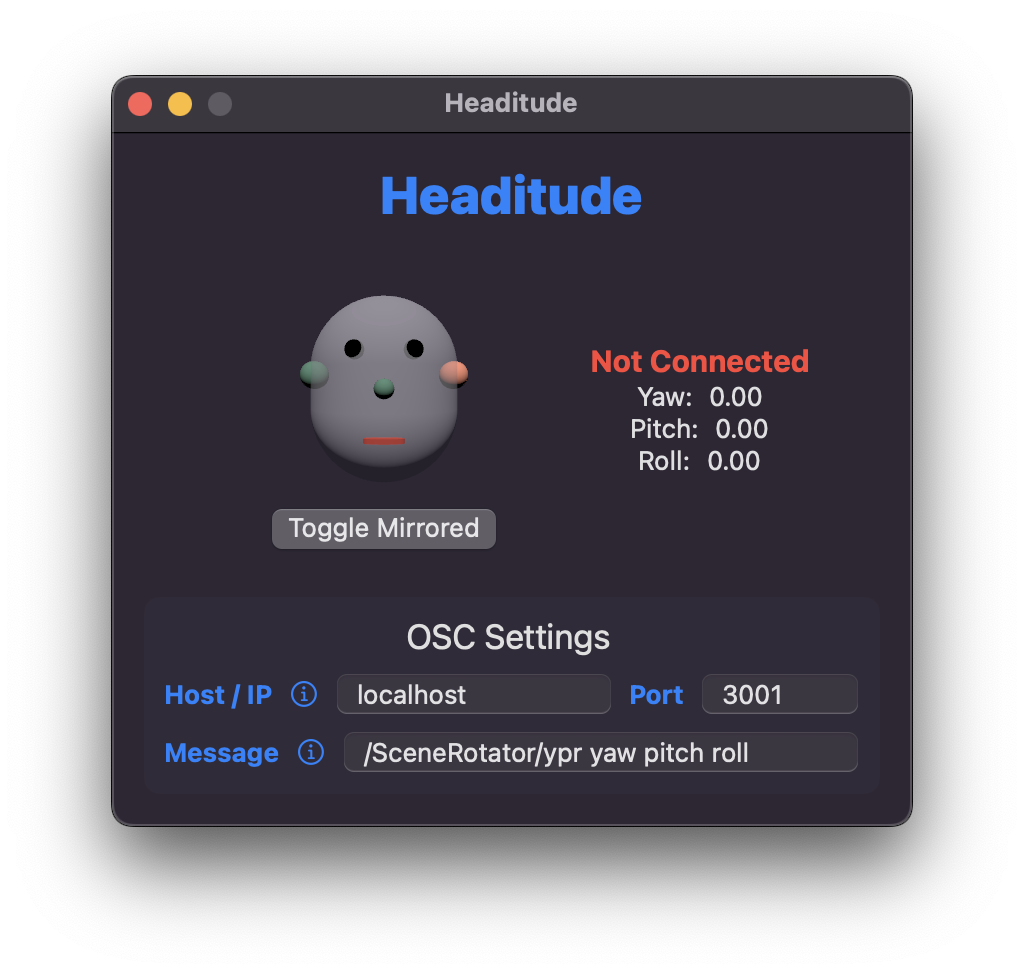
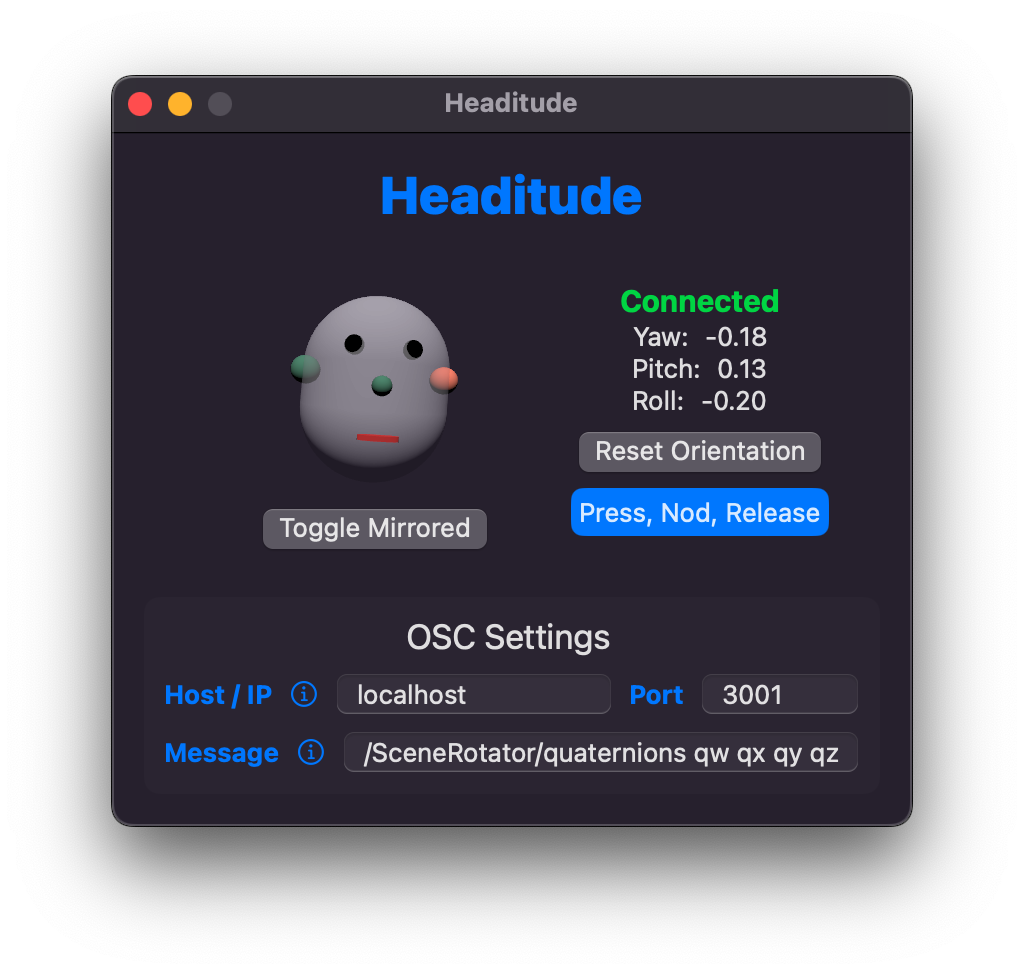
updates readme

diff --git a/README.md b/README.md
@@ -6,7 +6,26 @@ AirPods Orientation to OSC Sender
 Starting with macOS Sonoma 14.0 it is possible to access the orientation data of Apple AirPods using the CoreMotion framework.
 The **Headitude** app reads the orientation data and forwards it via OSC to a specified IP address and port.
 
-**:warning: Note**: The app is in an early stage of development and might not provide peak user experience just yet.
+**:warning: Note**: The app is in an early stage of development and might not provide peak user experience just yet. It's
+my first Swift/SwiftUI app, so don't expect best practices. :wink: But please let me know if you have any suggestions!! :pray:
+
+### Calibration
+The app doesn't know how you wear your AirPods. Therefore you need to calibrate the orientation data. Luckily,
+my calibration routine is very quick, and can be done in a fraction of a second (if you're fast enough).
+
+While you are wearing your AirPods:
+- look forward
+- press and hold the `Press, Nod, Release` button
+- nod your head down
+- while looking down, release the button
+- :tada: you're done!
+
+Internally, it uses the gravity data and some quaternion magic to calculate the calibration data. :sparkles:
+
+You can do a soft reset to reset the front direction by pressing the `Reset Orientation` button.
+
+The calibration data is stored in the user defaults and will be loaded on the next start of the app.
+:floppy_disk:
 
 ### Custom OSC Message
 
@@ -31,8 +50,11 @@ Currently the following tokens are supported:
 - `pitch+` Pitch-angle in degrees [0, 360]
 - `roll` Roll-angle in degrees
 - `roll+` Roll-angle in degrees [0, 360]
+- `qw` Quaternion w
+- `qx` Quaternion x
+- `qy` Quaternion y
+- `qz` Quaternion z
 
-You can prepend a token with a `-` to flip the sign.
+**Note**: You can prepend a token with a `-` to flip the sign.
 
-There are more tokens to come, e.g. angles in radians and quaternions.
-
+There are more tokens to come, e.g. angles in radians...
